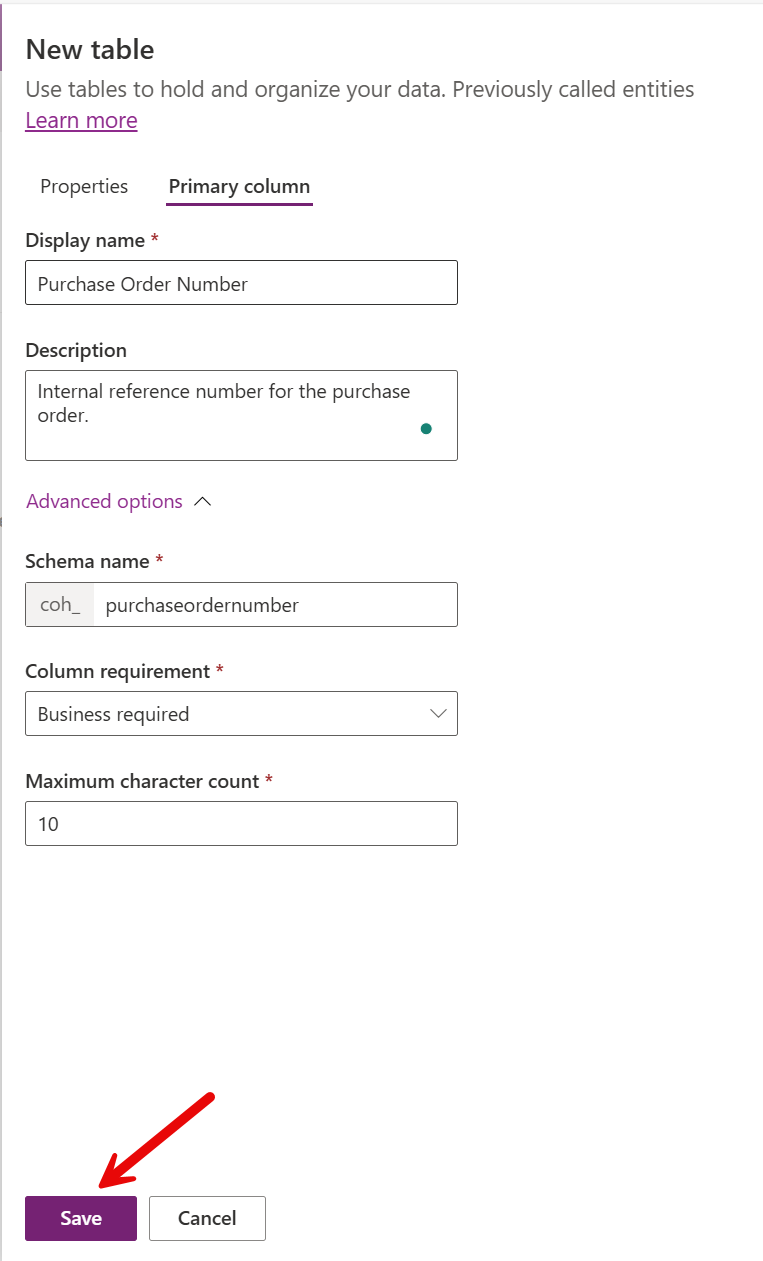
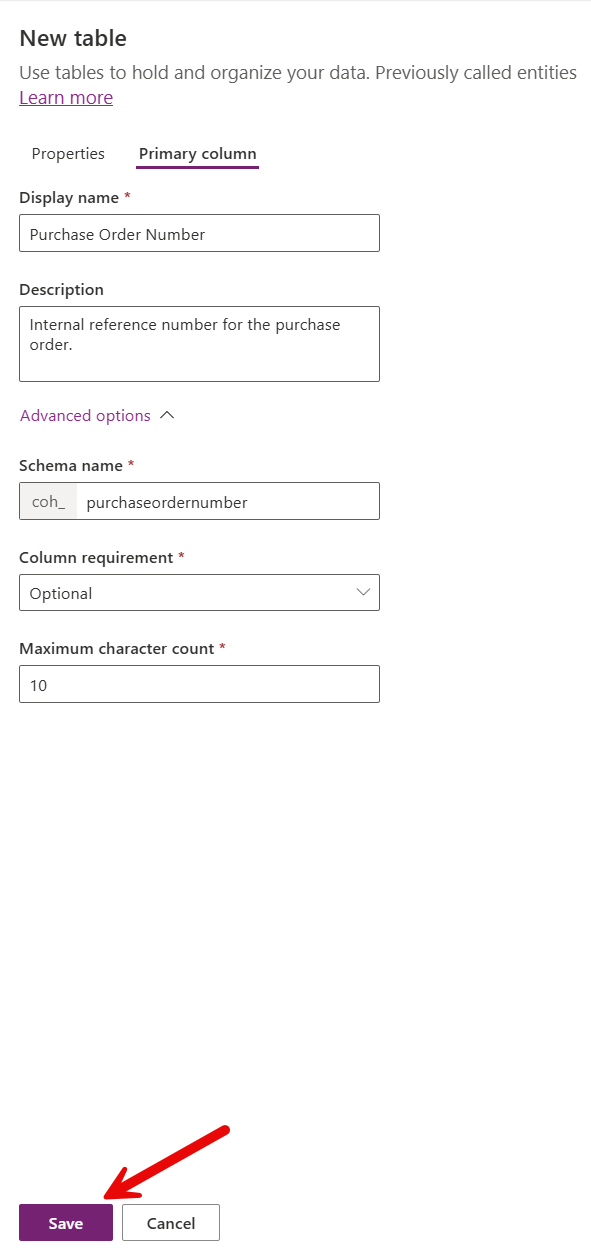
Fixed issue with earlier lab step and added steps and screenshots for Lab 1, Exercise 4

Changed region(s): [[0.0, 0.0, 0.9442, 0.9928], [0.5482, 0.5585, 0.6091, 0.5895]]

diff --git a/Lab1-CreateModelDrivenPowerApp.md b/Lab1-CreateModelDrivenPowerApp.md
@@ -26,6 +26,7 @@ After analysing the requirements in detail, you identify the following platform 
 - To handle the landing page and document display requirements, [custom pages](https://learn.microsoft.com/en-us/power-apps/maker/model-driven-apps/model-app-page-overview).
 - [Power Automate cloud flows](https://learn.microsoft.com/en-us/power-automate/overview-cloud), to handle the approval process using the [modern flow approvals engine](https://learn.microsoft.com/en-us/power-automate/get-started-approvals) and any other automation requirements.
 - A [custom prompt in AI Builder](https://learn.microsoft.com/en-us/ai-builder/prompts-overview) to assist with document contents search.
+- A [custom connector](https://learn.microsoft.com/en-us/connectors/custom-connectors/) to connect to the ERP API easily from a cloud flow and the custom page.
 
 You begin your work by planning out the data model you will use and all necessary Dataverse customisations to support the solution. You identify that new table, called **Purchase Order**, will be required, alongside the existing **Account** and **Contact** tables. You will complete all necessary steps to build the model-driven Power App, including all required form and view customisations, before then creating some test records. Finally, you will initiate and test the integration with the ERP by connecting to it's API and create the automation to generate the physical request documents.
 
@@ -71,7 +72,7 @@ This lab will take approximately 60 minutes to complete.
    - **Display name**: `Purchase Order Number`
    - **Description**: `Internal reference number for the purchase order.`
    - **Name**: `purchaseordernumber`
-   - **Column Requirement**: Business required
+   - **Column Requirement**: Optional
    - **Maximum Character Count**: `10`
 
 ![Images/Lab1-CreateModelDrivenPowerApp/E1_5.png](Images/Lab1-CreateModelDrivenPowerApp/E1_5.png)
@@ -373,9 +374,50 @@ To start this process, select the **New group** group in the sitemap, expand the
 
 ## Exercise 4: Add Test Records
 
-TBC
+To ensure we can test our app successfully with the ERP API integration and document generation, we will add some test records to the **Purchase Order**, **Account**, and **Contact** tables.
+
+1. In the **Coho Winery Purchase Order Management** app, navigate to the **Accounts** page and click on **New**.
+
+![Images/Lab1-CreateModelDrivenPowerApp/E4_1.png](Images/Lab1-CreateModelDrivenPowerApp/E4_1.png)
+
+2. In the **New Account** form, enter the following details and then click **Save & Close**:
+   - **Account Name**: `Wingtip Toys`
+   - **Phone**: `555-1234`
+   - **Website**: `https://www.wingtiptoys.com`
+
+![Images/Lab1-CreateModelDrivenPowerApp/E4_2.png](Images/Lab1-CreateModelDrivenPowerApp/E4_2.png)
+
+3. Navigate to the **Contacts** page and click on **New**.
+
+![Images/Lab1-CreateModelDrivenPowerApp/E4_3.png](Images/Lab1-CreateModelDrivenPowerApp/E4_3.png)
+
+4. In the **New Contact** form, enter the following details and then click **Save & Close**:
+   - **First Name**: `John`
+   - **Last Name**: `Doe`
+   - **Account Name**: Select the **Wingtip Toys** account you created earlier in this exercise.
+   - **Email**: `john.doe@wingtiptoys.com`
+   - **Business Phone**: `555-5678`
+
+![Images/Lab1-CreateModelDrivenPowerApp/E4_4.png](Images/Lab1-CreateModelDrivenPowerApp/E4_4.png)
+
+5. Navigate to the **Purchase Orders** page and click on **New**.
+
+![Images/Lab1-CreateModelDrivenPowerApp/E4_5.png](Images/Lab1-CreateModelDrivenPowerApp/E4_5.png)
+
+6. In the **New Purchase Order** form, enter the following details and then click **Save & Close**:
+   - **Account**: Select the **Wingtip Toys** account you created earlier in this exercise.
+   - **Contact**: Select the **John Doe** contact you created earlier in this exercise.
+   - **Requested Date**: Select today's date and time.
+   - **Value**: `2500`
+   - **Description**: `Purchase order miniature toys representing wine bottles and grapes.`
+
+![Images/Lab1-CreateModelDrivenPowerApp/E4_6.png](Images/Lab1-CreateModelDrivenPowerApp/E4_6.png)
+
+7. Feel free to create additional test records in the **Purchase Order**, **Account**, and **Contact** tables as needed.
 
 ## Exercise 5: Integrate with the ERP API
+
+In this exercise, we will integrate our app with the ERP API to enable data retrieval and manipulation. This will be done by creating a custom connector that connects to the ERP API, allowing us to retrieve the remaining value on a purchase order.
 
 TBC
 
